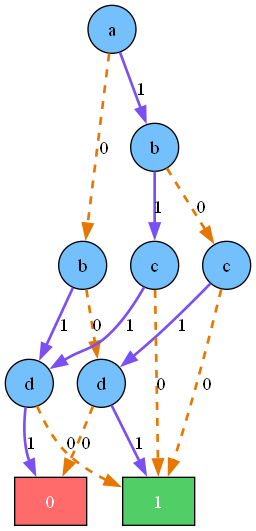
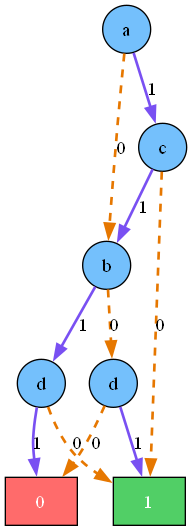
Fix variable ordering for formula a to [a,c,b,d] for optimal reduction

diff --git a/run_tests.py b/run_tests.py
@@ -61,11 +61,12 @@ def main():
     # ============================================================
     # FORMULA a) (a ∧ ¬c) ∨ (b ⊕ d)
     # Mixed logic with AND, NOT, OR, XOR
+    # Variable order [a, c, b, d] gives optimal reduction
     # ============================================================
     test_formula(
         name="a_MixedLogic",
         formula="(a & ~c) | (b ^ d)",
-        variables=["a", "b", "c", "d"],
+        variables=["a", "c", "b", "d"],
         output_dir=output_dir
     )
 
